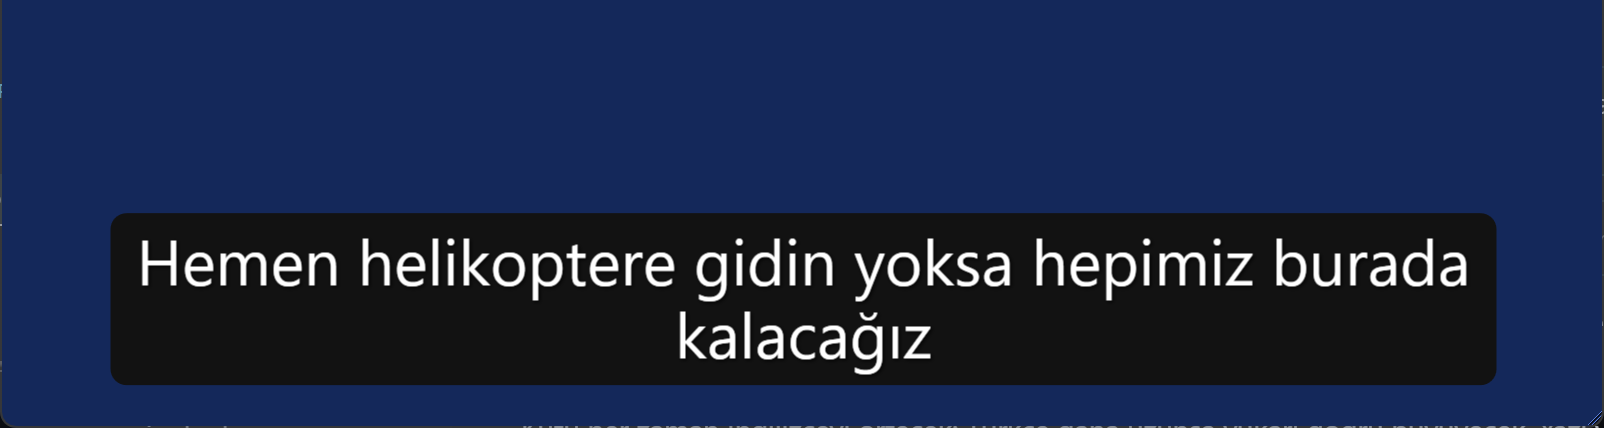
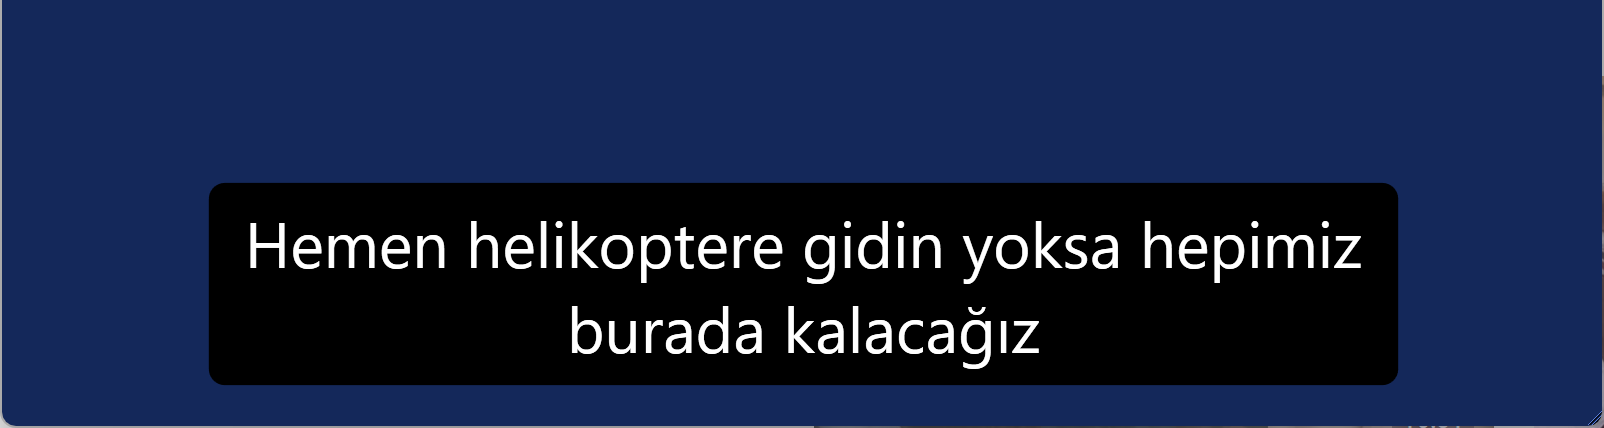
Cover mode: reuse original subtitle element unchanged, only reposition over English

diff --git a/src/OyunAltyazi.App/Overlay/OverlayWindow.xaml b/src/OyunAltyazi.App/Overlay/OverlayWindow.xaml
@@ -10,12 +10,5 @@
             <TextBlock x:Name="Text" Foreground="White" FontFamily="Segoe UI" FontSize="30"
                        TextWrapping="Wrap" TextAlignment="Center"/>
         </Border>
-        <Canvas x:Name="CoverLayer">
-            <Border x:Name="CoverBox" Visibility="Collapsed" CornerRadius="8" Padding="12,6" Background="#EB121212">
-                <TextBlock x:Name="CoverText" Foreground="White" FontFamily="Segoe UI" TextWrapping="Wrap" TextAlignment="Center" LineStackingStrategy="BlockLineHeight">
-                    <TextBlock.Effect><DropShadowEffect ShadowDepth="1" BlurRadius="3" Color="Black" Opacity="0.9"/></TextBlock.Effect>
-                </TextBlock>
-            </Border>
-        </Canvas>
     </Grid>
 </Window>

diff --git a/src/OyunAltyazi.App/Overlay/OverlayWindow.xaml.cs b/src/OyunAltyazi.App/Overlay/OverlayWindow.xaml.cs
@@ -77,10 +77,7 @@ public sealed partial class OverlayWindow : Window, ISubtitleSink
     {
         _game = gameHwnd;
         _style = style;
-        Text.FontSize = style.FontSize;
         _current = null;
-        CoverBox.Background = new SolidColorBrush(Color.FromArgb((byte)(Math.Clamp(style.CoverOpacity, 0, 1) * 255), 0x12, 0x12, 0x12));
-        Box.Background = new SolidColorBrush(Color.FromArgb((byte)(Math.Clamp(style.BackgroundOpacity, 0, 1) * 255), 0, 0, 0));
         new WindowInteropHelper(this).EnsureHandle();
         _timer.Start();
         Align();
@@ -118,7 +115,7 @@ public sealed partial class OverlayWindow : Window, ISubtitleSink
             (_frameX, _frameY, _frameW, _frameH) = (fr.Left, fr.Top, fr.Right - fr.Left, fr.Bottom - fr.Top);
         _haveFrame = true;
         Box.MaxWidth = w / dpi.DpiScaleX * 0.8;
-        Box.Margin = new Thickness(0, 0, 0, h / dpi.DpiScaleY * _style.BottomMargin);
+        Render();
     }
 
     private bool GameInForeground()
@@ -146,49 +143,45 @@ public sealed partial class OverlayWindow : Window, ISubtitleSink
     public void SetStyle(OverlayStyle style)
     {
         _style = style;
-        CoverBox.Background = new SolidColorBrush(Color.FromArgb((byte)(Math.Clamp(style.CoverOpacity, 0, 1) * 255), 0x12, 0x12, 0x12));
         Render();
     }
 
-    private TextMetrics MeasureText(string? speaker, string text, double fs, double maxWidth)
+    public (DipRect Actual, System.Windows.Size Desired, DipRect Screen) BoxMetrics()
     {
-        double ppd = VisualTreeHelper.GetDpi(this).PixelsPerDip;
-        var face = new Typeface(CoverText.FontFamily, FontStyles.Normal, FontWeights.Normal, FontStretches.Normal);
-        FormattedText Make(string t) => new(t, System.Globalization.CultureInfo.CurrentUICulture, FlowDirection.LeftToRight, face, fs, Brushes.White, ppd);
-        var full = Make((string.IsNullOrEmpty(speaker) ? "" : speaker + ": ") + text);
-        full.MaxTextWidth = Math.Max(1, maxWidth);
-        full.LineHeight = fs * CoverLayout.LineHeightFactor;
-        var oneT = Make("Ag"); oneT.LineHeight = fs * CoverLayout.LineHeightFactor; double one = oneT.Height;
-        return new TextMetrics(full.Width + 2, full.Height, Math.Max(1, (int)Math.Round(full.Height / one)));
+        var o = Box.TranslatePoint(new Point(0, 0), this);
+        return (new DipRect(o.X, o.Y, Box.ActualWidth, Box.ActualHeight), new System.Windows.Size(Box.DesiredSize.Width - Box.Margin.Left - Box.Margin.Right, Box.DesiredSize.Height - Box.Margin.Top - Box.Margin.Bottom), new DipRect(0, 0, ActualWidth, ActualHeight));
     }
 
     private void Render()
     {
         if (_current is not { } c) return;
         bool cover = _style.CoverOriginal && c.Box is { W: > 0, H: > 0 } && _haveFrame;
+        var dpi = VisualTreeHelper.GetDpi(this);
+        Text.FontSize = _style.FontSize;
+        Fill(Text, c.Speaker, c.Text, c.Source);
+        double op = cover ? _style.CoverOpacity : _style.BackgroundOpacity;
+        Box.Background = new SolidColorBrush(Color.FromArgb((byte)(Math.Clamp(op, 0, 1) * 255), 0, 0, 0));
+        Box.Visibility = Visibility.Visible;
         if (!cover)
         {
-            CoverBox.Visibility = Visibility.Collapsed;
-            Fill(Text, c.Speaker, c.Text, c.Source);
-            Box.Visibility = Visibility.Visible;
+            Box.MinWidth = 0; Box.MinHeight = 0;
+            Text.VerticalAlignment = VerticalAlignment.Top;
+            Box.HorizontalAlignment = HorizontalAlignment.Center; Box.VerticalAlignment = VerticalAlignment.Bottom;
+            Box.Margin = new Thickness(0, 0, 0, ActualHeight * _style.BottomMargin);
             return;
         }
-        Box.Visibility = Visibility.Collapsed;
-        var dpi = VisualTreeHelper.GetDpi(this);
         var eng = OverlayMapping.FrameBoxToOverlayDips(c.Box!, _frameW, _frameH, _frameX, _frameY, _ovX, _ovY, dpi.DpiScaleX, dpi.DpiScaleY);
-        double maxW = ActualWidth * 0.95;
-        if (RegionProvider?.Invoke() is { W: > 0 } rg) maxW = Math.Min(maxW, rg.W * _frameW / dpi.DpiScaleX);
-        var fit = CoverLayout.Fit(eng, c.Text, c.Speaker, maxW, _style.FontSize, MeasureText, new DipRect(0, 0, ActualWidth, ActualHeight));
-        Fill(CoverText, c.Speaker, c.Text, c.Source);
-        CoverText.FontSize = fit.FontSize;
-        CoverText.LineHeight = fit.FontSize * CoverLayout.LineHeightFactor;
-        var b = fit.Box;
-        CoverBox.Padding = new Thickness(CoverLayout.PadH, CoverLayout.PadV, CoverLayout.PadH, CoverLayout.PadV);
-        CoverBox.Width = b.Width; CoverBox.Height = b.Height;
-        CoverText.VerticalAlignment = VerticalAlignment.Center;
-        CoverBox.CornerRadius = new CornerRadius(8);
-        Canvas.SetLeft(CoverBox, b.X); Canvas.SetTop(CoverBox, b.Y);
-        CoverBox.Visibility = Visibility.Visible;
+        // Same element/style as the bar; it only grows to hide the English (min size), never limited or clipped.
+        Box.MinWidth = Math.Min(eng.Width + 2 * CoverLayout.Pad, ActualWidth);
+        Box.MinHeight = Math.Min(eng.Height + 2 * CoverLayout.Pad, ActualHeight);
+        Text.VerticalAlignment = VerticalAlignment.Center;
+        Box.HorizontalAlignment = HorizontalAlignment.Left; Box.VerticalAlignment = VerticalAlignment.Top;
+        Box.Margin = new Thickness(0);
+        Box.Measure(new System.Windows.Size(ActualWidth, ActualHeight));
+        var d = Box.DesiredSize;
+        var (x, y) = CoverLayout.Place(d.Width, d.Height, eng, ActualWidth, ActualHeight);
+        Box.Margin = new Thickness(x, y, 0, 0);
+        Box.UpdateLayout();
     }
 
     public void Clear()
@@ -197,9 +190,7 @@ public sealed partial class OverlayWindow : Window, ISubtitleSink
         {
             _current = null;
             Box.Visibility = Visibility.Collapsed;
-            CoverBox.Visibility = Visibility.Collapsed;
             Text.Inlines.Clear();
-            CoverText.Inlines.Clear();
         });
     }
 }

diff --git a/tests/OyunAltyazi.App.Tests/CoverVerificationTests.cs b/tests/OyunAltyazi.App.Tests/CoverVerificationTests.cs
@@ -164,7 +164,7 @@ $s.AutoSize=$false; $s.TextAlign='MiddleCenter'; $s.Left=0; $s.Width=1600; $s.He
             await Task.Delay(400);
             after?.Dispose();
             after = Shot(frame);
-            coverFound = Bounds(after, coverStrip, c => Math.Abs(c.R - 18) < 4 && Math.Abs(c.G - 18) < 4 && Math.Abs(c.B - 18) < 4);
+            coverFound = Bounds(after, coverStrip, c => c.R < 6 && c.G < 6 && c.B < 6);
         }
         var dir = Environment.GetEnvironmentVariable("OA_SHOT_DIR");
         if (!string.IsNullOrEmpty(dir))
@@ -191,10 +191,69 @@ $s.AutoSize=$false; $s.TextAlign='MiddleCenter'; $s.Left=0; $s.Width=1600; $s.He
         Assert.DoesNotContain(EnglishWords, w => read.Contains(w));
         double trLineH = res.Lines.Max(l => l.Height) * half.Height * 2.5;
         Console.WriteLine($"{shotName}: Turkish OCR line height {trLineH:0.0}px vs English {engLineH:0.0}px ({trLineH / engLineH:0.00})");
-        double cfgPx = new OverlayStyle().FontSize * 2 * CoverLayout.LineHeightFactor; // 200% DPI
+        double cfgPx = new OverlayStyle().FontSize * 2 * 1.33; // 200% DPI, Segoe UI natural line height
         Console.WriteLine($"{shotName}: expected line ~{cfgPx:0.0}px");
         Assert.InRange(trLineH / cfgPx, 0.75, 1.25);
 
         overlay!.Dispatcher.InvokeShutdown();
+    }
+
+    [Fact]
+    public async Task Long_two_sentence_turkish_with_speaker_is_fully_visible_and_covers_english()
+    {
+        SetProcessDpiAwarenessContext(new IntPtr(-4));
+        using var game = new FakeGame(30, "Laswell: John, you know how dangerous this operation is. We all must get out alive.");
+        DwmGetWindowAttribute(game.Hwnd, 9, out var fr, Marshal.SizeOf<RECT>());
+        var frame = new Rectangle(fr.Left, fr.Top, fr.Right - fr.Left, fr.Bottom - fr.Top);
+        int titleBar = frame.Height - 900 - 8;
+        double labelTop = (770 + titleBar) / (double)frame.Height, labelH = 100.0 / frame.Height;
+        var strip = new Rectangle(0, (int)((labelTop - 0.01) * frame.Height), frame.Width, (int)((labelH + 0.02) * frame.Height));
+        OverlayWindow? overlay = null;
+        var ready = new ManualResetEventSlim();
+        var th = new Thread(() =>
+        {
+            overlay = new OverlayWindow();
+            overlay.Attach(game.Hwnd, new OverlayStyle());
+            overlay.ExcludeFromCapture = false;
+            ready.Set();
+            System.Windows.Threading.Dispatcher.Run();
+        }) { IsBackground = true };
+        th.SetApartmentState(ApartmentState.STA); th.Start();
+        Assert.True(ready.Wait(10000));
+        keybd_event(0x12, 0, 0, UIntPtr.Zero); keybd_event(0x12, 0, 2, UIntPtr.Zero);
+        SetForegroundWindow(game.Hwnd);
+        await Task.Delay(1000);
+        Rectangle truth;
+        using (var before = Shot(frame))
+            truth = Bounds(before, strip, c => c.R > 200 && c.G > 200 && c.B > 200) ?? throw new Exception("İngilizce metin bulunamadı");
+        var box = new RegionF((double)truth.Left / frame.Width, (double)truth.Top / frame.Height, (double)truth.Width / frame.Width, (double)truth.Height / frame.Height);
+        overlay!.Show("Laswell", "John, bu operasyonun ne kadar tehlikeli olduğunu biliyorsun. Hepimiz buradan sağ çıkmalıyız.", TranslationSource.Translator, box, 2);
+        var coverStrip = Rectangle.FromLTRB(0, Math.Max(0, strip.Top - 260), frame.Width, strip.Bottom);
+        Bitmap after = null!; Rectangle? cover = null;
+        for (int i = 0; i < 25 && cover is null; i++)
+        {
+            keybd_event(0x12, 0, 0, UIntPtr.Zero); keybd_event(0x12, 0, 2, UIntPtr.Zero);
+            SetForegroundWindow(game.Hwnd);
+            await Task.Delay(400);
+            after?.Dispose();
+            after = Shot(frame);
+            cover = Bounds(after, coverStrip, c => c.R < 6 && c.G < 6 && c.B < 6);
+        }
+        var dir = Environment.GetEnvironmentVariable("OA_SHOT_DIR");
+        if (!string.IsNullOrEmpty(dir))
+        {
+            Directory.CreateDirectory(dir);
+            using var crop = after.Clone(new Rectangle(0, coverStrip.Top - 20, frame.Width, Math.Min(coverStrip.Height + 120, frame.Height - coverStrip.Top + 20)), PixelFormat.Format32bppArgb);
+            crop.Save(Path.Combine(dir, "cover-long-speaker.png"), ImageFormat.Png);
+        }
+        var r = cover ?? throw new Exception("Örtü kutusu bulunamadı");
+        Assert.True(r.Left <= truth.Left + 2 && r.Top <= truth.Top + 2 && r.Right >= truth.Right - 2 && r.Bottom >= truth.Bottom - 2, $"örtü İngilizceyi kapsamıyor {r} {truth}");
+        var m = overlay!.Dispatcher.Invoke(() => overlay.BoxMetrics());
+        Console.WriteLine($"long: actual {m.Actual} desired {m.Desired} screen {m.Screen} cover {r}");
+        Assert.Equal(m.Desired.Width, m.Actual.Width, 0.5);
+        Assert.Equal(m.Desired.Height, m.Actual.Height, 0.5);
+        Assert.True(m.Actual.X >= 0 && m.Actual.Y >= 0 && m.Actual.Right <= m.Screen.Width + 0.5 && m.Actual.Bottom <= m.Screen.Height + 0.5);
+        Assert.True(m.Actual.Height > 60, "iki cümle birden fazla satır olmalı");
+        overlay.Dispatcher.InvokeShutdown();
     }
 }

diff --git a/tests/OyunAltyazi.Core.Tests/CoverLayoutTests.cs b/tests/OyunAltyazi.Core.Tests/CoverLayoutTests.cs
@@ -4,110 +4,22 @@ namespace OyunAltyazi.Core.Tests;
 
 public class CoverLayoutTests
 {
-    // fake measurer: each char is 0.5*fs wide, line height 1.25*fs, greedy char wrap
-    private static TextMetrics Measure(string? sp, string text, double fs, double maxW)
-    {
-        int perLine = Math.Max(1, (int)(maxW / (fs * 0.5)));
-        int len = (sp is null ? 0 : sp.Length + 2) + text.Length;
-        int lines = (len + perLine - 1) / perLine;
-        double w = Math.Min(len, perLine) * fs * 0.5;
-        return new TextMetrics(w, lines * fs * 1.25, lines);
-    }
-
     private static readonly DipRect Eng = new(300, 400, 400, 30);
 
-    private static void AssertCovers(DipRect outer, DipRect inner)
+    [Fact]
+    public void Centered_and_bottom_aligned_growing_upward()
     {
-        Assert.True(outer.X <= inner.X + 1e-9 && outer.Y <= inner.Y + 1e-9 && outer.Right >= inner.Right - 1e-9 && outer.Bottom >= inner.Bottom - 1e-9);
+        var (x, y) = CoverLayout.Place(500, 120, Eng, 1600, 900);
+        Assert.Equal(Eng.CenterX, x + 250, 6);
+        Assert.Equal(Eng.Bottom + CoverLayout.Pad, y + 120, 6);
     }
 
     [Fact]
-    public void Short_text_keeps_configured_font_regardless_of_english_height()
+    public void Clamped_left_right_top_bottom()
     {
-        var f = CoverLayout.Fit(Eng, "Hemen gidin", null, 1000, 32, Measure);
-        Assert.Equal(32, f.FontSize);
-        Assert.Equal(Eng.Width + 24, f.Box.Width);
-        Assert.Equal(Eng.CenterX, f.Box.CenterX, 6);
-        AssertCovers(f.Box, Eng);
-        var tiny = CoverLayout.Fit(new DipRect(300, 400, 400, 10), "Hemen gidin", null, 1000, 40, Measure);
-        Assert.Equal(40, tiny.FontSize);
-    }
-
-    [Fact]
-    public void Long_text_keeps_font_and_widens_up_to_region()
-    {
-        var f = CoverLayout.Fit(Eng, new string('a', 50), null, 1000, 32, Measure); // 800 DIP at 32
-        Assert.Equal(32, f.FontSize);
-        Assert.Equal(1, f.Lines);
-        Assert.True(f.Box.Width > Eng.Width + 24 && f.Box.Width <= 1000);
-        AssertCovers(f.Box, Eng);
-    }
-
-    [Fact]
-    public void Taller_box_grows_upward_with_bottom_aligned_to_english()
-    {
-        var f = CoverLayout.Fit(Eng, new string('a', 120), null, 700, 32, Measure);
-        Assert.Equal(3, f.Lines);
-        Assert.Equal(32, f.FontSize);
-        Assert.True(f.Box.Height > Eng.Height + 12);
-        Assert.Equal(Eng.Bottom + CoverLayout.PadV, f.Box.Bottom, 6);
-        Assert.True(f.Box.Y < Eng.Y);
-        AssertCovers(f.Box, Eng);
-    }
-
-    [Fact]
-    public void Floor_24_only_when_more_than_three_lines()
-    {
-        var ok = CoverLayout.Fit(Eng, new string('a', 100), null, 700, 32, Measure); // 3 lines at 32
-        Assert.Equal(32, ok.FontSize);
-        var f = CoverLayout.Fit(Eng, new string('a', 5000), "Bob", 500, 32, Measure);
-        Assert.Equal(CoverLayout.MinFont, f.FontSize);
-        Assert.True(f.Box.Width <= 500);
-        AssertCovers(f.Box, Eng);
-        var g = CoverLayout.Fit(Eng, new string('a', 60), null, 700, 32, Measure); // 2 lines -> no shrink
-        Assert.Equal(32, g.FontSize);
-    }
-
-    [Fact]
-    public void Clamped_to_bounds_but_still_covers_english()
-    {
-        var bounds = new DipRect(0, 380, 1000, 100);
-        var f = CoverLayout.Fit(Eng, new string('a', 120), null, 700, 32, Measure, bounds);
-        AssertCovers(f.Box, Eng);
-    }
-
-    [Fact]
-    public void Box_never_narrower_than_english_even_if_max_width_is_small()
-    {
-        var f = CoverLayout.Fit(Eng, "ab", null, 100, 32, Measure);
-        Assert.True(f.Box.Width >= Eng.Width);
-        Assert.True(f.Box.Height >= Eng.Height);
-    }
-}
-
-public class OverlayMappingTests
-{
-    // Window frame at screen (100,50) px, 1600x900 px; overlay (client area) at (108,81) px.
-    [Theory]
-    [InlineData(1.0)]
-    [InlineData(1.5)]
-    [InlineData(2.0)]
-    public void Maps_frame_fraction_to_overlay_dips(double dpi)
-    {
-        var box = new RegionF(0.25, 0.8, 0.5, 0.1);
-        var d = OverlayMapping.FrameBoxToOverlayDips(box, 1600, 900, 100, 50, 108, 81, dpi, dpi);
-        // physical: x = 100+400 = 500, y = 50+720 = 770, w=800, h=90
-        Assert.Equal((500 - 108) / dpi, d.X, 6);
-        Assert.Equal((770 - 81) / dpi, d.Y, 6);
-        Assert.Equal(800 / dpi, d.Width, 6);
-        Assert.Equal(90 / dpi, d.Height, 6);
-    }
-
-    [Fact]
-    public void At_200_percent_a_1600px_box_is_800_dips()
-    {
-        var d = OverlayMapping.FrameBoxToOverlayDips(new RegionF(0, 0, 1, 1), 1600, 900, 0, 0, 0, 0, 2, 2);
-        Assert.Equal(800, d.Width);
-        Assert.Equal(450, d.Height);
+        Assert.Equal(0, CoverLayout.Place(500, 50, new DipRect(0, 400, 100, 30), 1600, 900).X);
+        Assert.Equal(1600 - 500, CoverLayout.Place(500, 50, new DipRect(1500, 400, 100, 30), 1600, 900).X);
+        Assert.Equal(0, CoverLayout.Place(500, 300, new DipRect(300, 100, 400, 30), 1600, 900).Y);
+        Assert.Equal(900 - 50, CoverLayout.Place(500, 50, new DipRect(300, 890, 400, 30), 1600, 900).Y);
     }
 }

diff --git a/src/OyunAltyazi.Core/CoverLayout.cs b/src/OyunAltyazi.Core/CoverLayout.cs
@@ -8,50 +8,21 @@ public readonly record struct DipRect(double X, double Y, double Width, double H
     public double CenterY => Y + Height / 2;
 }
 
-/// <summary>Result of measuring wrapped text: widest line, total height, line count (all in DIPs).</summary>
-public readonly record struct TextMetrics(double Width, double Height, int Lines);
-
-/// <summary>Measures speaker+text at a font size, wrapped to maxWidth DIPs.</summary>
-public delegate TextMetrics TextMeasure(string? speaker, string text, double fontSize, double maxWidth);
-
-public readonly record struct CoverFit(DipRect Box, double FontSize, int Lines);
-
 public static class CoverLayout
 {
-    public const double MinFont = 24, DefaultFont = 32, PadH = 12, PadV = 6, MaxLines = 3, LineHeightFactor = 1.15;
+    public const double DefaultFont = 32, Pad = 6;
 
     /// <summary>
-    /// Places the Turkish text over the English box with OUR font size (fontSize, not derived from the English).
-    /// The font only shrinks (1 DIP steps, floor 24) when the text needs more than 3 lines within maxWidth.
-    /// Box = max(English+pad, text+pad), centred horizontally on the English box, bottom aligned to the English bottom (+pad)
-    /// so a taller box grows upward; clamped inside bounds when given (never at the cost of covering the English box).
+    /// Position only: element centred horizontally on the English box, bottom at English bottom + Pad (grows upward),
+    /// clamped so it stays fully inside the overlay (when it fits).
     /// </summary>
-    public static CoverFit Fit(DipRect english, string text, string? speaker, double maxWidth, double fontSize, TextMeasure measure, DipRect? bounds = null)
+    public static (double X, double Y) Place(double width, double height, DipRect english, double overlayW, double overlayH)
     {
-        double minW = english.Width + 2 * PadH;
-        double boxMaxW = Math.Max(maxWidth, minW);
-        double textMaxW = boxMaxW - 2 * PadH;
-        double fs = fontSize;
-        double floor = Math.Min(MinFont, fs);
-        TextMetrics m;
-        while (true)
-        {
-            m = measure(speaker, text, fs, textMaxW);
-            if (m.Lines <= MaxLines || fs <= floor) break;
-            fs -= 1;
-        }
-        double w = Math.Min(boxMaxW, Math.Max(minW, Math.Ceiling(m.Width) + 2 * PadH));
-        double h = Math.Max(english.Height + 2 * PadV, Math.Ceiling(m.Height) + 2 * PadV);
-        double x = english.CenterX - w / 2;
-        double y = english.Bottom + PadV - h;
-        if (bounds is { } r)
-        {
-            x = Math.Max(r.X, Math.Min(x, r.Right - w));
-            y = Math.Max(r.Y, Math.Min(y, r.Bottom - h));
-            x = Math.Min(x, english.X); x = Math.Max(x, english.Right - w);
-            y = Math.Min(y, english.Y); y = Math.Max(y, english.Bottom - h);
-        }
-        return new CoverFit(new DipRect(x, y, w, h), fs, m.Lines);
+        double x = english.CenterX - width / 2;
+        double y = english.Bottom + Pad - height;
+        x = Math.Max(0, Math.Min(x, overlayW - width));
+        y = Math.Max(0, Math.Min(y, overlayH - height));
+        return (x, y);
     }
 }
 
